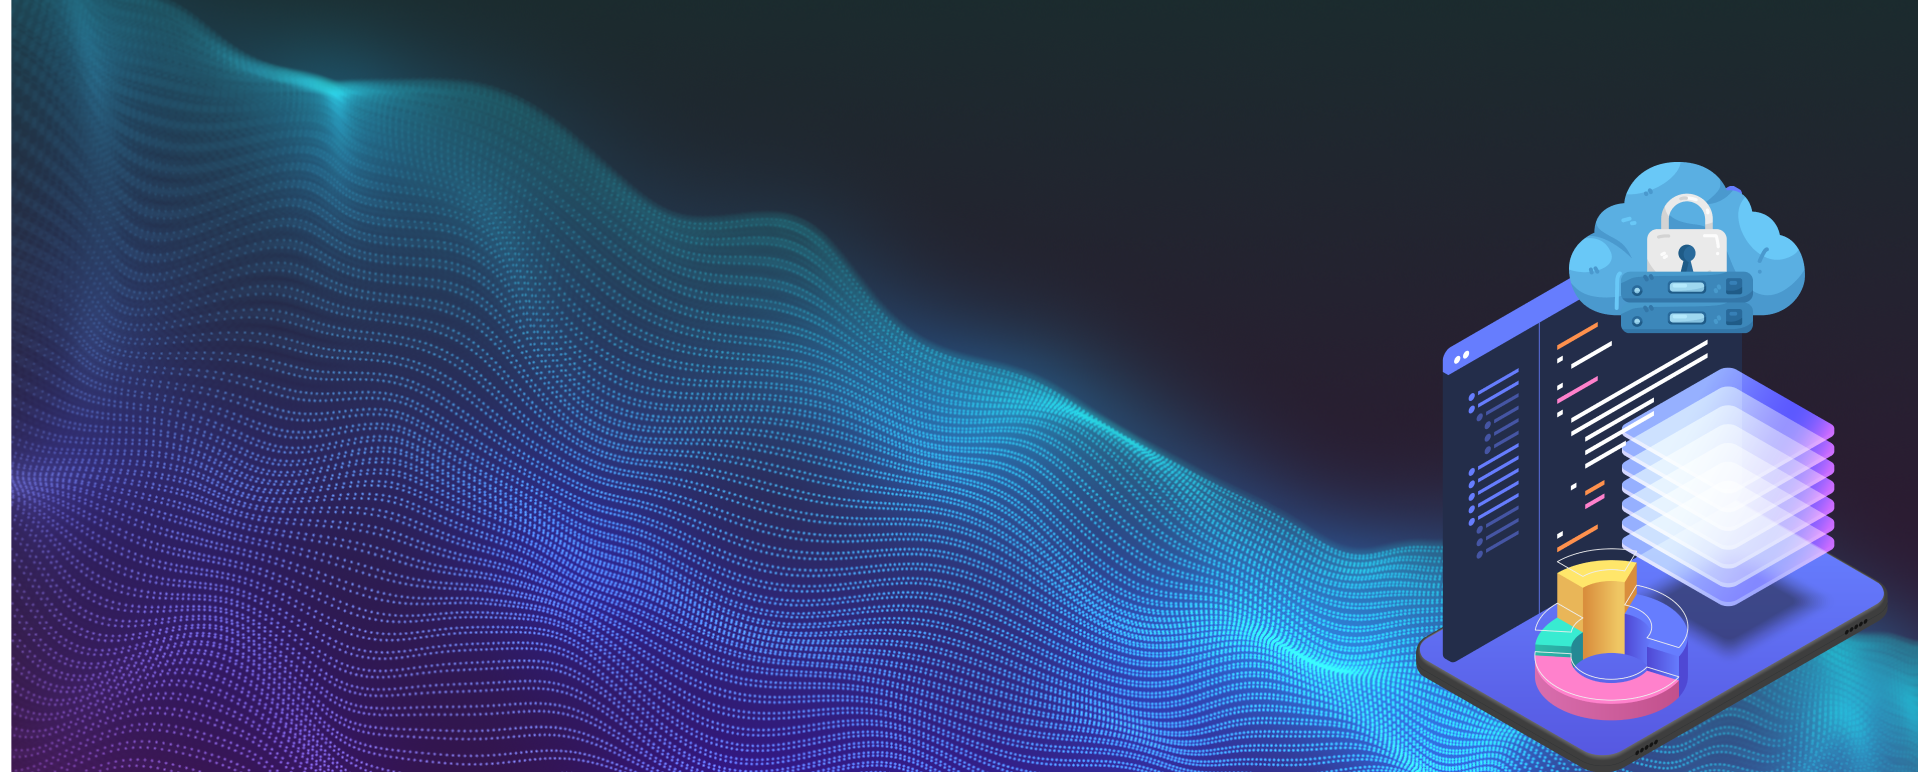
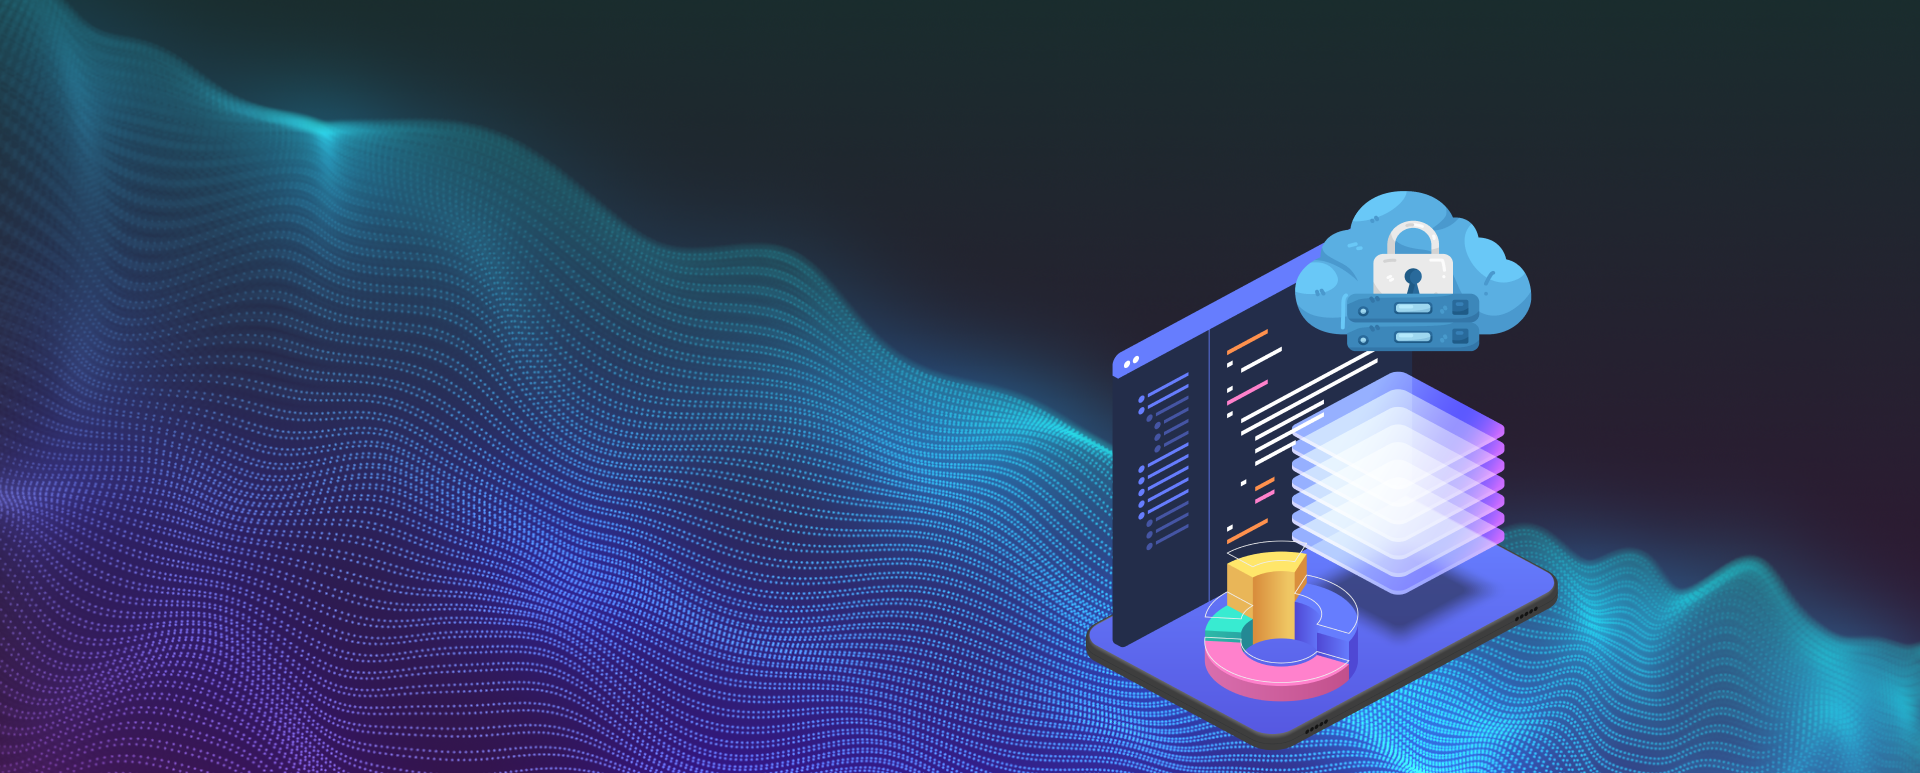
fix code

diff --git a/src/pages/solution/Solution.module.css b/src/pages/solution/Solution.module.css
@@ -13,9 +13,9 @@
     }
 
     .sectionTitle {
-    font-size: 2.5rem;
+   font-size: 36px;
     font-weight: 600;
-    margin-bottom: 2.5rem;
+    margin-bottom: 2rem;
     line-height: 1.2;
     }
 
@@ -132,13 +132,15 @@
     }
 
     .solutionTitle {
+    padding: 2px;
     position: absolute;
     left: 1rem;
     bottom: 1rem;
     color: #fff;
     font-weight: 600;
-    font-size: 1rem;
+    font-size: 20px;
     transition: all 0.7s;
+
     }
 
     .solutionCard:hover .solutionTitle {

diff --git a/src/global.css b/src/global.css
@@ -105,7 +105,7 @@
   font-size: 14px;
   font-weight: bold;
   margin-bottom: 5px;
-  color: #333;
+
 }
 
 .companyInfo p {
